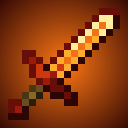
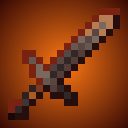
Phoenix PvP: netherite sword instead of diamond
Swap to a near-vanilla netherite sword: greys warmed slightly, purple trim
turned ember red, light edge and grip given a dull glow.

Claude-Session: https://claude.ai/code/session_01RZeowR2f2k3Lfay5axRHLJ

diff --git a/phoenix-pvp-pack/make_sword.py b/phoenix-pvp-pack/make_sword.py
@@ -1,8 +1,8 @@
 #!/usr/bin/env python3
-"""Phoenix diamond sword: the vanilla diamond sword with each blade colour swapped for a fire colour.
+"""Phoenix netherite sword: the vanilla netherite sword with its colours warmed toward fire.
 
-Shape, shading and the stick handle are untouched; only the seven teal shades change.
-Usage: python3 make_sword.py   (reads .vanilla/diamond_sword.png, fetching it if missing)
+Shape and shading are untouched; each vanilla shade is swapped for a warmer one.
+Usage: python3 make_sword.py   (reads .vanilla/netherite_sword.png, fetching it if missing)
 """
 import json
 import urllib.request
@@ -11,19 +11,24 @@ from pathlib import Path
 from PIL import Image
 
 ROOT = Path(__file__).resolve().parent
-VANILLA = ROOT / ".vanilla" / "diamond_sword.png"
-URL = "https://raw.githubusercontent.com/misode/mcmeta/1.21.11-assets/assets/minecraft/textures/item/diamond_sword.png"
+VANILLA = ROOT / ".vanilla" / "netherite_sword.png"
+URL = "https://raw.githubusercontent.com/misode/mcmeta/1.21.11-assets/assets/minecraft/textures/item/netherite_sword.png"
 PACK = ROOT / "pack"
 
-# vanilla teal -> phoenix fire, darkest to brightest
+# vanilla netherite -> phoenix netherite. The greys only warm up a little so it still reads as
+# netherite; the purple trim becomes an ember edge and the blade's light edge a dull glow.
 SWAP = {
-    (8, 37, 32): (44, 6, 4),        # outline
-    (14, 63, 54): (104, 14, 8),     # inner outline
-    (21, 99, 85): (156, 26, 10),    # guard shadow
-    (30, 138, 119): (206, 56, 14),  # blade shadow
-    (43, 199, 172): (242, 112, 22), # blade
-    (51, 235, 203): (255, 172, 46), # blade light
-    (164, 253, 240): (255, 238, 160),  # edge glint
+    (22, 8, 20): (24, 8, 8),          # outline
+    (35, 16, 18): (38, 14, 12),       # handle/blade shadow
+    (59, 57, 59): (62, 54, 52),       # blade dark
+    (74, 41, 64): (122, 34, 18),      # purple trim -> ember trim
+    (96, 52, 50): (124, 58, 30),      # grip
+    (79, 60, 62): (84, 60, 56),       # blade core
+    (81, 68, 78): (88, 70, 64),       # blade mid
+    (115, 69, 67): (170, 92, 36),     # grip highlight
+    (93, 86, 93): (102, 88, 80),      # blade
+    (112, 103, 112): (122, 104, 92),  # blade light
+    (134, 123, 134): (182, 124, 84),  # edge glint
 }
 
 
@@ -38,7 +43,7 @@ def main():
             r, g, b, a = px[x, y]
             if a and (r, g, b) in SWAP:
                 px[x, y] = SWAP[r, g, b] + (a,)
-    out = PACK / "assets/minecraft/textures/item/diamond_sword.png"
+    out = PACK / "assets/minecraft/textures/item/netherite_sword.png"
     out.parent.mkdir(parents=True, exist_ok=True)
     sword.save(out, optimize=True)
 

diff --git a/phoenix-pvp-pack/README.md b/phoenix-pvp-pack/README.md
@@ -5,9 +5,9 @@ one texture at a time on top of vanilla.
 
 ## So far
 
-- **Diamond sword:** the vanilla sword with each of its seven teal shades swapped
-  for a fire color, from a dark ember outline to a pale gold edge. The shape and
-  the stick handle are unchanged.
+- **Netherite sword:** still reads as vanilla netherite. The grey blade is only
+  warmed slightly, the purple trim becomes an ember red, and the blade's light edge
+  and grip pick up a dull fire glow. The shape and shading are unchanged.
 
 ## Install
 
